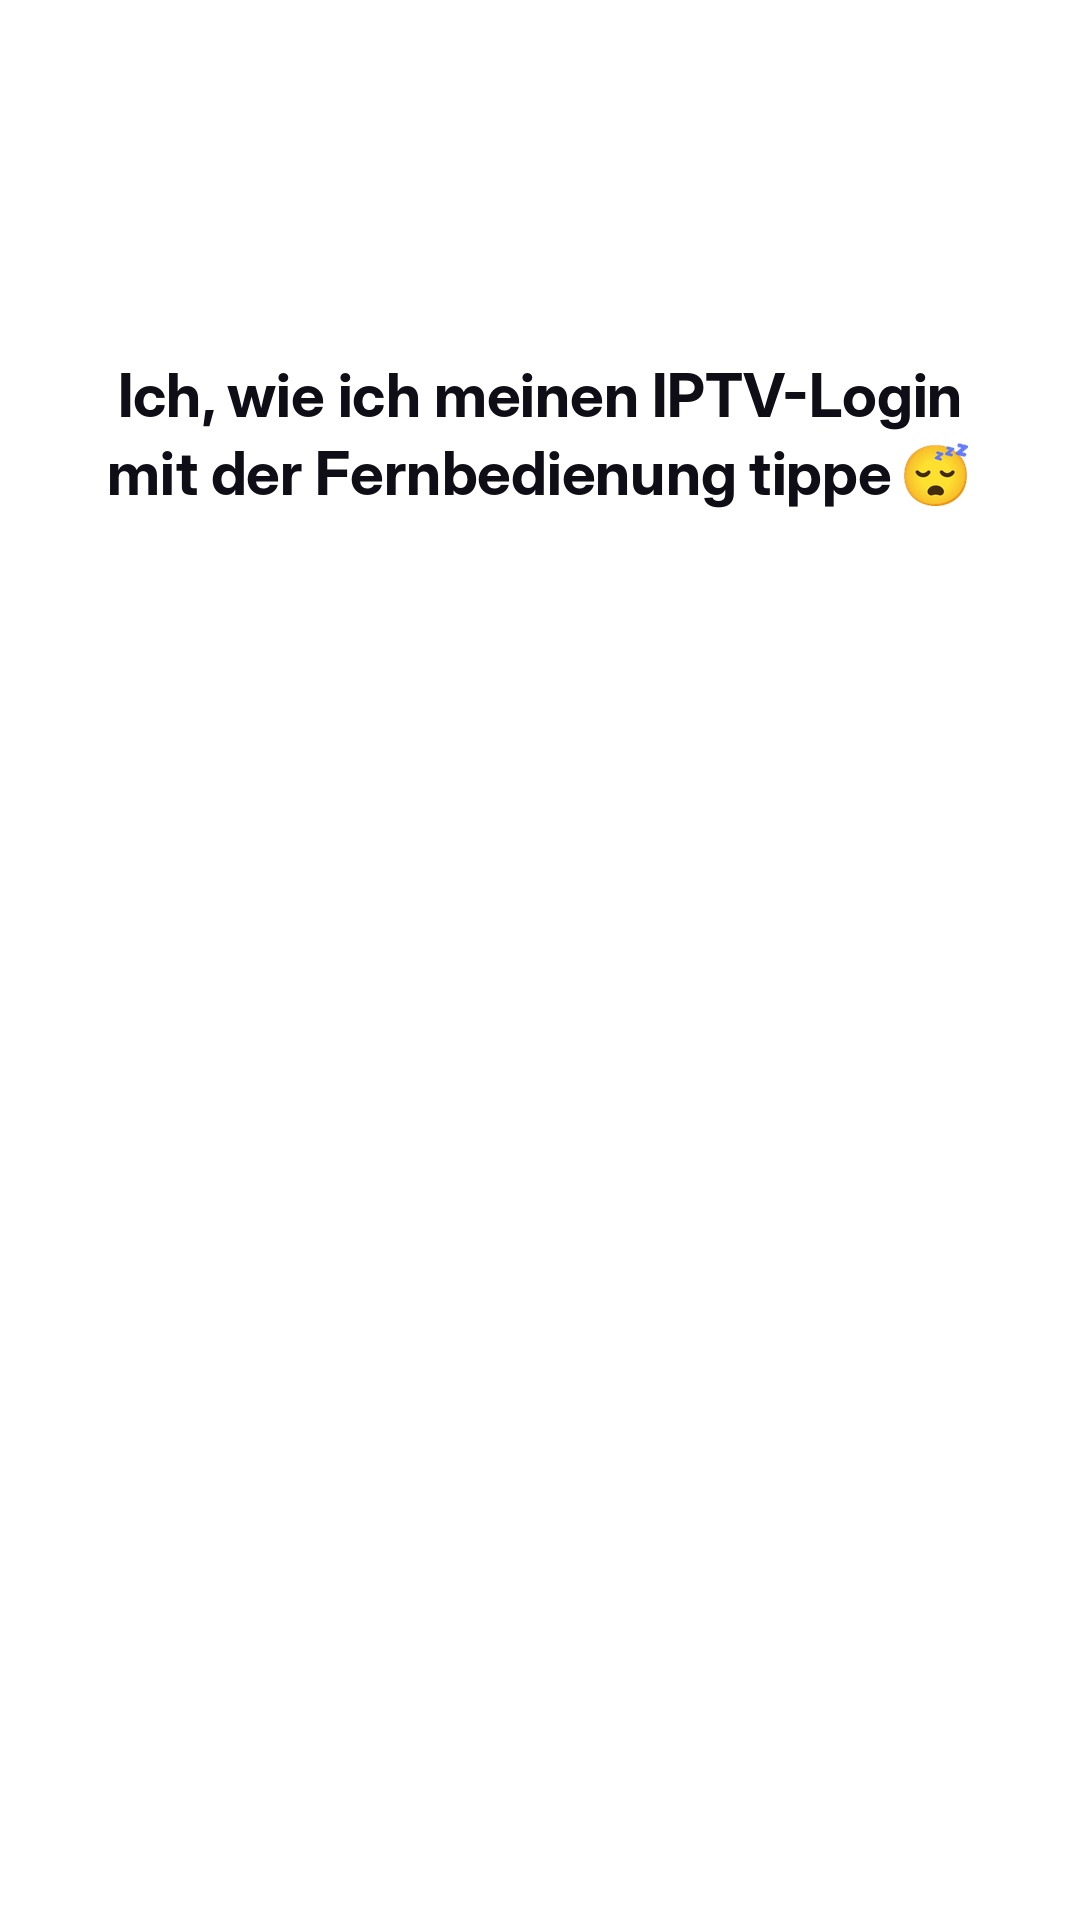
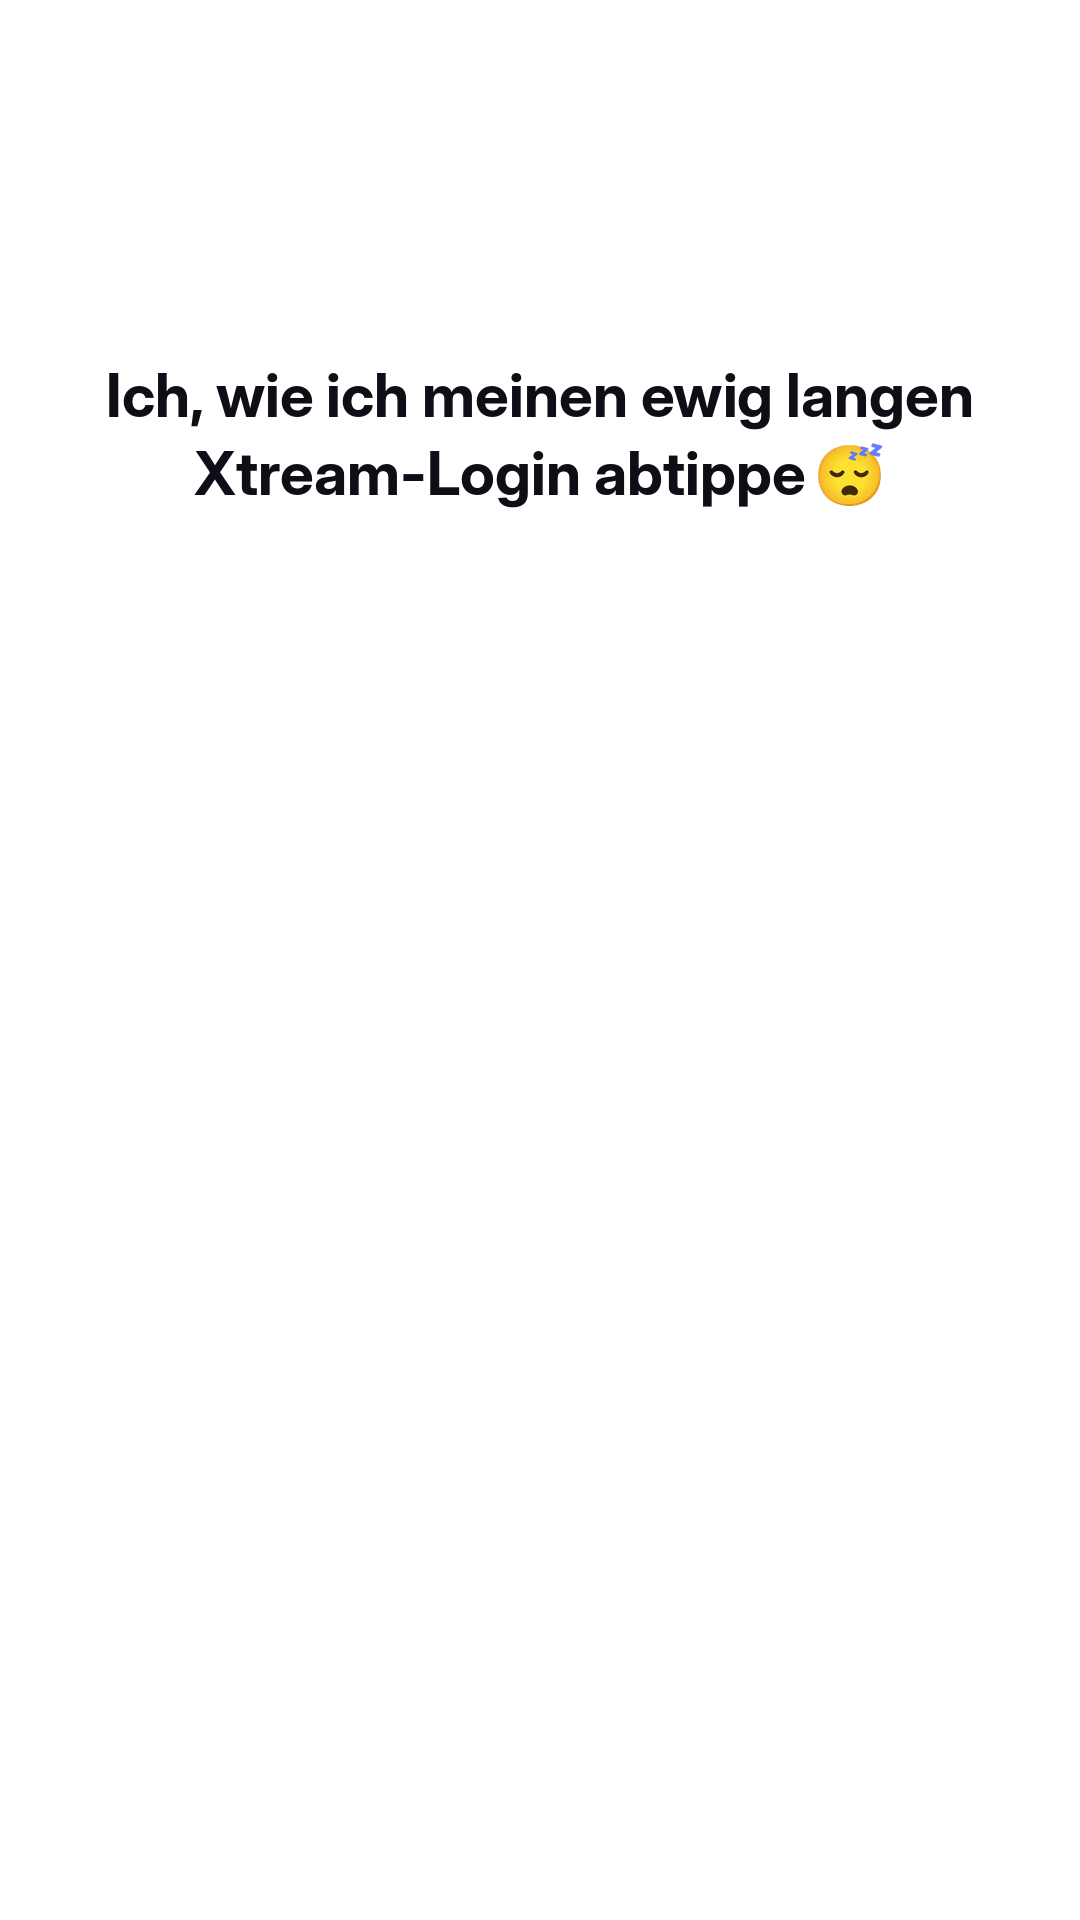
Fun week: clip 3 hook matches the footage (typing on phone)
Claude-Session: https://claude.ai/code/session_01Nfw8GpYrxiVt1FDW1PsKKW

Changed region(s): [[0.0917, 0.1875, 0.9167, 0.2812]]

diff --git a/weeks/fun-2026-11-26.py b/weeks/fun-2026-11-26.py
@@ -29,12 +29,12 @@ T = {
          "POV : Mamie (78 ans) a trouvé un lecteur IPTV sans pub 👵",
          "Mamie (78 ans) a compris avant toi 👵 Ta propre playlist, zéro pub. Kanalo est gratuit sur iPhone, iPad & Apple TV.")},
  3: {  # typing login with the remote, falls asleep
-  "de": (["Ich, wie ich meinen IPTV-Login", "mit der Fernbedienung tippe 😴"], ["Kanalo: QR-Code mit dem", "iPhone scannen. Fertig."],
-         "Ich, wie ich meinen IPTV-Login mit der Fernbedienung tippe 😴",
-         "Jeder, der seinen Xtream-Login schon mal mit der Fernbedienung getippt hat 😴 In Kanalo scannst du einfach einen QR-Code mit dem iPhone."),
-  "es": (["Yo escribiendo mi login IPTV", "con el mando 😴"], ["Kanalo: escanea un QR", "con el iPhone. Listo."],
-         "Yo escribiendo mi login IPTV con el mando 😴",
-         "Todo el que ha escrito su login Xtream con el mando 😴 En Kanalo escaneas un código QR con el iPhone y listo.")},
+  "de": (["Ich, wie ich meinen ewig langen", "Xtream-Login abtippe 😴"], ["Kanalo: QR-Code mit dem", "iPhone scannen. Fertig."],
+         "Ich, wie ich meinen ewig langen Xtream-Login abtippe 😴",
+         "Jeder, der seinen ewig langen Xtream-Login schon mal Zeichen für Zeichen abgetippt hat 😴 In Kanalo scannst du einfach einen QR-Code mit dem iPhone."),
+  "es": (["Yo escribiendo mi login", "Xtream larguísimo 😴"], ["Kanalo: escanea un QR", "con el iPhone. Listo."],
+         "Yo escribiendo mi login Xtream larguísimo 😴",
+         "Todo el que ha escrito su login Xtream larguísimo letra a letra 😴 En Kanalo escaneas un código QR con el iPhone y listo.")},
  4: {  # spits out coffee
   "en": (["When you realise you paid €72", "for an IPTV PLAYER 💀"], ["Kanalo is free.", "No ads. No account."],
          "When you realise you paid €72 for an IPTV PLAYER 💀",
